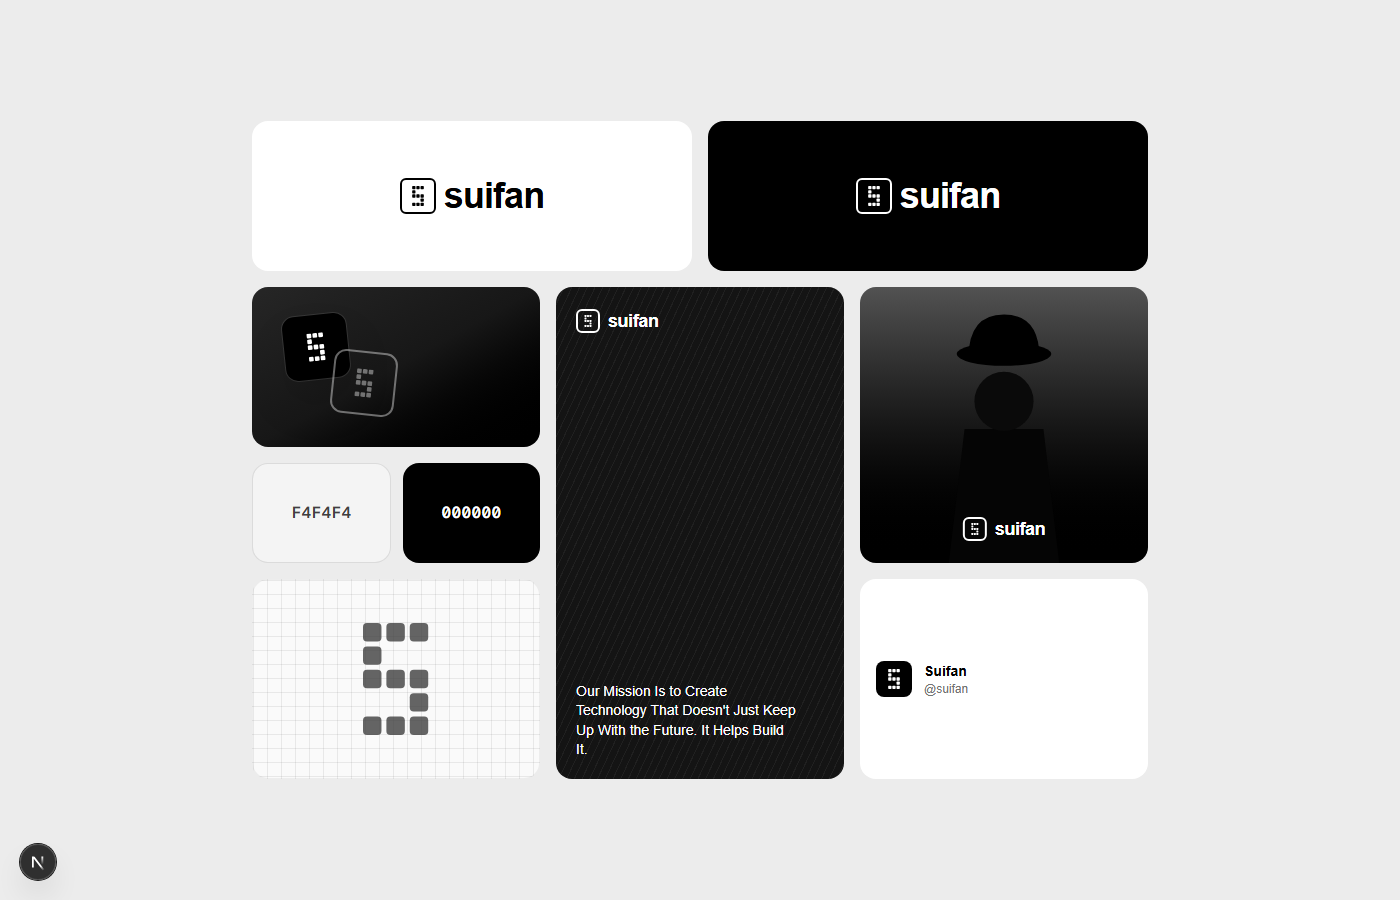
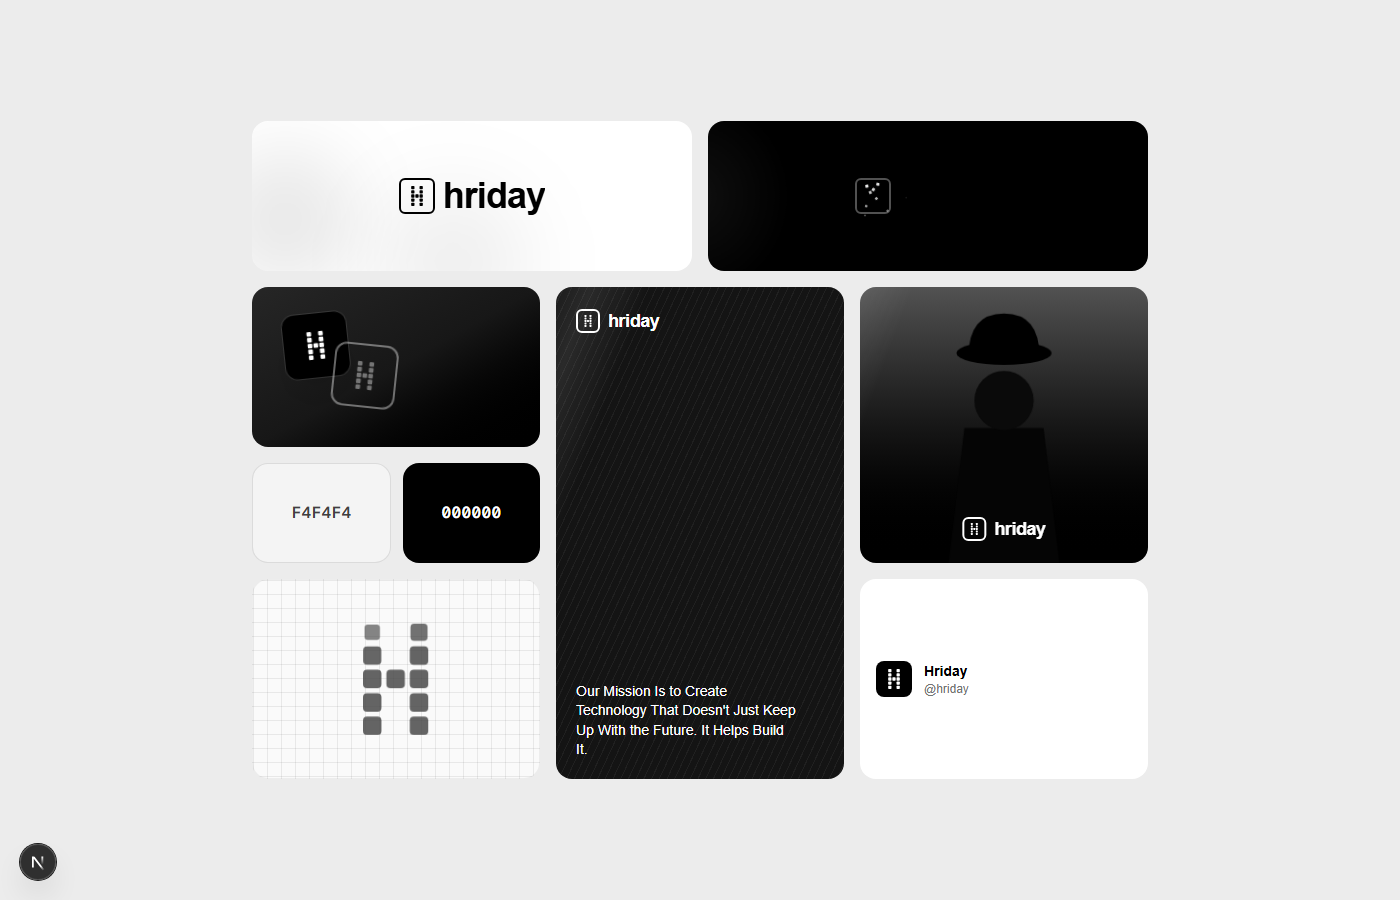
ads ui

diff --git a/src/app/page.tsx b/src/app/page.tsx
@@ -1,31 +1,53 @@
 import LogoMark from "@/components/LogoMark";
 import Wordmark from "@/components/Wordmark";
+import OutlineWordmark from "@/components/OutlineWordmark";
+import BlurWordmark from "@/components/BlurWordmark";
+
+const MARQUEE_ROWS = ["marquee-left", "marquee-right", "marquee-left"];
 
 export default function Home() {
   return (
-    <section className="flex min-h-screen w-full items-center justify-center bg-[#ececec] p-6 md:p-14">
-      <div className="brand-grid w-full max-w-4xl">
+    <section className="relative flex min-h-screen w-full items-center justify-center overflow-hidden bg-[#ececec] p-6 md:p-14">
+      <div className="bg-marquee" aria-hidden="true">
+        {MARQUEE_ROWS.map((dir, i) => (
+          <div key={i} className={`marquee-row ${dir}`}>
+            {Array.from({ length: 12 }, (_, j) => (
+              <span key={j}>HRIDAY</span>
+            ))}
+          </div>
+        ))}
+      </div>
+      <div className="brand-grid relative z-10 w-full max-w-4xl">
         {/* Light logo card */}
-        <div className="area-logoLight flex h-40 items-center justify-center rounded-2xl bg-white md:h-full">
-          <Wordmark tone="dark" size="lg" />
+        <div className="area-logoLight relative flex h-40 items-center justify-center overflow-hidden rounded-2xl bg-white md:h-full">
+          <BlurWordmark />
         </div>
 
+
+
         {/* Dark logo card */}
-        <div className="area-logoDark flex h-40 items-center justify-center rounded-2xl bg-black md:h-full">
-          <Wordmark tone="light" size="lg" />
+        <div className="area-logoDark beam relative flex h-40 items-center justify-center overflow-hidden rounded-2xl bg-black md:h-full">
+          <OutlineWordmark />
         </div>
+
+
 
         {/* Cube / lockup photo */}
         <div className="area-cube relative h-40 w-full overflow-hidden rounded-2xl bg-gradient-to-br from-neutral-800 via-neutral-900 to-black md:h-full">
-          <div className="absolute left-8 top-7 flex h-16 w-16 -rotate-6 items-center justify-center rounded-xl bg-black shadow-2xl ring-1 ring-white/10">
+          <div className="anim-float absolute left-8 top-7 flex h-16 w-16 -rotate-6 items-center justify-center rounded-xl bg-black shadow-2xl ring-1 ring-white/10">
             <LogoMark className="h-7 w-7" color="#ffffff" />
           </div>
-          <div className="absolute left-20 top-16 flex h-16 w-16 rotate-6 items-center justify-center rounded-xl border-2 border-white/40">
+          <div className="anim-float-delayed absolute left-20 top-16 flex h-16 w-16 rotate-6 items-center justify-center rounded-xl border-2 border-white/40">
             <LogoMark className="h-7 w-7" color="rgba(255,255,255,0.4)" />
           </div>
         </div>
 
-        {/* Color swatches */}
+
+
+
+
+
+
         <div className="area-swatch flex h-20 gap-3 md:h-full">
           <div className="flex flex-1 items-center justify-center rounded-2xl border border-black/10 bg-[#F4F4F4] font-mono text-base font-semibold tracking-wide text-neutral-700">
             F4F4F4
@@ -44,12 +66,12 @@ export default function Home() {
             backgroundSize: "14px 14px",
           }}
         >
-          <LogoMark className="h-28 w-auto opacity-80" color="#3f3f3f" />
+          <LogoMark className="h-28 w-auto opacity-80" color="#3f3f3f" animated />
         </div>
 
         {/* Dark mission photo */}
         <div
-          className="area-dark relative flex h-64 flex-col justify-between overflow-hidden rounded-2xl bg-[#141414] p-5 md:h-full"
+          className="area-dark sheen relative flex h-64 flex-col justify-between overflow-hidden rounded-2xl bg-[#141414] p-5 md:h-full"
           style={{
             backgroundImage:
               "repeating-linear-gradient(115deg, rgba(255,255,255,0.05) 0px, rgba(255,255,255,0.05) 1px, transparent 1px, transparent 7px)",
@@ -63,11 +85,11 @@ export default function Home() {
         </div>
 
         {/* Person photo */}
-        <div className="area-person relative h-72 overflow-hidden rounded-2xl bg-gradient-to-b from-neutral-600 via-neutral-900 to-black md:h-full">
+        <div className="area-person sheen relative h-72 overflow-hidden rounded-2xl bg-gradient-to-b from-neutral-600 via-neutral-900 to-black md:h-full">
           <svg
             viewBox="0 0 100 140"
             preserveAspectRatio="xMidYMax meet"
-            className="absolute inset-0 h-full w-full"
+            className="anim-breathe absolute inset-0 h-full w-full"
             aria-hidden="true"
           >
             <polygon points="22,140 30,72 70,72 78,140" fill="#050505" />
@@ -86,8 +108,8 @@ export default function Home() {
             <LogoMark className="h-5 w-5" color="#ffffff" />
           </span>
           <div className="flex flex-col leading-tight">
-            <span className="text-sm font-semibold text-black">Suifan</span>
-            <span className="text-xs text-neutral-500">@suifan</span>
+            <span className="text-sm font-semibold text-black">Hriday</span>
+            <span className="text-xs text-neutral-500">@hriday</span>
           </div>
         </div>
       </div>

diff --git a/src/app/globals.css b/src/app/globals.css
@@ -52,3 +52,167 @@ body {
   .area-person { grid-area: person; }
   .area-card { grid-area: card; }
 }
+
+@keyframes float-y {
+  0%, 100% { transform: translateY(0); }
+  50% { transform: translateY(-9px); }
+}
+
+@keyframes cell-pulse {
+  0%, 100% { transform: scale(1); opacity: 1; }
+  50% { transform: scale(0.55); opacity: 0.45; }
+}
+
+@keyframes sheen {
+  0% { transform: translateX(-120%) skewX(-20deg); }
+  60%, 100% { transform: translateX(260%) skewX(-20deg); }
+}
+
+@keyframes breathe {
+  0%, 100% { transform: scale(1) translateY(0); }
+  50% { transform: scale(1.04) translateY(-3px); }
+}
+
+.anim-float { animation: float-y 3.6s ease-in-out infinite; }
+.anim-float-delayed { animation: float-y 3.6s ease-in-out -1.8s infinite; }
+.anim-breathe { animation: breathe 5s ease-in-out infinite; transform-origin: 50% 100%; }
+
+.logo-cell {
+  transform-box: fill-box;
+  transform-origin: center;
+  animation: cell-pulse 2.4s ease-in-out infinite;
+}
+
+.sheen { position: relative; overflow: hidden; }
+.sheen::after {
+  content: "";
+  position: absolute;
+  inset: 0 auto 0 0;
+  width: 40%;
+  background: linear-gradient(90deg, transparent, rgba(255, 255, 255, 0.09), transparent);
+  animation: sheen 5s ease-in-out infinite;
+  pointer-events: none;
+}
+
+@media (prefers-reduced-motion: reduce) {
+  .anim-float, .anim-float-delayed, .anim-breathe, .logo-cell, .sheen::after {
+    animation: none;
+  }
+}
+
+@property --angle {
+  syntax: "<angle>";
+  inherits: false;
+  initial-value: 0deg;
+}
+
+@keyframes blur-in {
+  0%, 4% { opacity: 0; filter: blur(12px); transform: scale(1.5); }
+  22%, 76% { opacity: 1; filter: blur(0); transform: scale(1); }
+  92%, 100% { opacity: 0; filter: blur(12px); transform: scale(0.85); }
+}
+
+@keyframes col-wave {
+  0%, 100% { opacity: 0.15; }
+  30%, 60% { opacity: 1; }
+}
+
+@keyframes ring {
+  0% { transform: translate(-50%, -50%) scale(0.2); opacity: 0.35; }
+  100% { transform: translate(-50%, -50%) scale(2.6); opacity: 0; }
+}
+
+@keyframes beam {
+  to { --angle: 360deg; }
+}
+
+@keyframes fill-sweep {
+  0%, 8% { background-position: 100% 0; }
+  45%, 70% { background-position: 0% 0; }
+  100% { background-position: 100% 0; }
+}
+
+.blur-letter { display: inline-block; animation: blur-in 6s cubic-bezier(0.22, 1, 0.36, 1) infinite backwards; }
+.col-wave { animation: col-wave 6s ease-in-out infinite backwards; }
+.ring {
+  position: absolute;
+  left: 50%;
+  top: 50%;
+  width: 200px;
+  height: 200px;
+  border-radius: 9999px;
+  border: 1.5px solid #000;
+  pointer-events: none;
+  animation: ring 4.5s ease-out infinite;
+}
+
+.beam { position: relative; }
+.beam::before {
+  content: "";
+  position: absolute;
+  inset: 0;
+  border-radius: inherit;
+  padding: 2px;
+  background: conic-gradient(from var(--angle), transparent 0 70%, rgba(255, 255, 255, 0.9) 100%);
+  -webkit-mask: linear-gradient(#000 0 0) content-box, linear-gradient(#000 0 0);
+  -webkit-mask-composite: xor;
+  mask: linear-gradient(#000 0 0) content-box exclude, linear-gradient(#000 0 0);
+  animation: beam 4s linear infinite;
+  pointer-events: none;
+}
+
+.outline-fill {
+  color: transparent;
+  -webkit-text-stroke: 1.5px #fff;
+  background-image: linear-gradient(90deg, #fff 50%, transparent 50%);
+  background-size: 200% 100%;
+  background-position: 100% 0;
+  -webkit-background-clip: text;
+  background-clip: text;
+  animation: fill-sweep 5s ease-in-out infinite;
+}
+
+@media (prefers-reduced-motion: reduce) {
+  .blur-letter, .col-wave, .ring, .beam::before, .outline-fill { animation: none; }
+  .blur-letter, .col-wave { opacity: 1; }
+  .outline-fill { color: #fff; background: none; }
+}
+
+@keyframes marquee-left {
+  from { transform: translateX(0); }
+  to { transform: translateX(-50%); }
+}
+
+@keyframes marquee-right {
+  from { transform: translateX(-50%); }
+  to { transform: translateX(0); }
+}
+
+.bg-marquee {
+  position: absolute;
+  inset: 0;
+  overflow: hidden;
+  pointer-events: none;
+  display: flex;
+  flex-direction: column;
+  justify-content: space-between;
+  -webkit-mask-image: linear-gradient(to right, transparent, #000 15%, #000 85%, transparent);
+  mask-image: linear-gradient(to right, transparent, #000 15%, #000 85%, transparent);
+}
+.marquee-row { display: flex; width: max-content; }
+.marquee-row span {
+  padding-right: 0.5em;
+  font-size: clamp(120px, 24vh, 260px);
+  font-weight: 800;
+  line-height: 1;
+  letter-spacing: -0.03em;
+  white-space: nowrap;
+  color: transparent;
+  -webkit-text-stroke: 1.5px rgba(0, 0, 0, 0.13);
+}
+.marquee-left { animation: marquee-left 60s linear infinite; }
+.marquee-right { animation: marquee-right 70s linear infinite; }
+
+@media (prefers-reduced-motion: reduce) {
+  .marquee-left, .marquee-right { animation: none; }
+}

diff --git a/src/components/LogoMark.tsx b/src/components/LogoMark.tsx
@@ -1,26 +1,28 @@
 type LogoMarkProps = {
   className?: string;
   color?: string;
+  animated?: boolean;
+  waveColumns?: boolean;
 };
 
-// Blocky "S" monogram built on a 3x5 block grid, rendered as an SVG so it
+// Blocky "H" monogram built on a 3x5 block grid, rendered as an SVG so it
 // scales cleanly at any size used across the brand board.
 const CELL = 6;
 const GAP = 1.6;
 const STEP = CELL + GAP;
 
 const FILLED_CELLS: Array<[col: number, row: number]> = [
-  [0, 0], [1, 0], [2, 0],
-  [0, 1],
+  [0, 0], [2, 0],
+  [0, 1], [2, 1],
   [0, 2], [1, 2], [2, 2],
-  [2, 3],
-  [0, 4], [1, 4], [2, 4],
+  [0, 3], [2, 3],
+  [0, 4], [2, 4],
 ];
 
 const WIDTH = 3 * STEP - GAP;
 const HEIGHT = 5 * STEP - GAP;
 
-export default function LogoMark({ className, color = "currentColor" }: LogoMarkProps) {
+export default function LogoMark({ className, color = "currentColor", animated = false, waveColumns = false }: LogoMarkProps) {
   return (
     <svg
       viewBox={`0 0 ${WIDTH} ${HEIGHT}`}
@@ -29,9 +31,17 @@ export default function LogoMark({ className, color = "currentColor" }: LogoMark
       xmlns="http://www.w3.org/2000/svg"
       aria-hidden="true"
     >
-      {FILLED_CELLS.map(([col, row]) => (
+      {FILLED_CELLS.map(([col, row], i) => (
         <rect
           key={`${col}-${row}`}
+          className={waveColumns ? "col-wave" : animated ? "logo-cell" : undefined}
+          style={
+            waveColumns
+              ? { animationDelay: `${col * 0.35}s` }
+              : animated
+                ? { animationDelay: `${i * 0.18}s` }
+                : undefined
+          }
           x={col * STEP}
           y={row * STEP}
           width={CELL}

diff --git a/src/components/BlurWordmark.tsx b/src/components/BlurWordmark.tsx
@@ -1,0 +1,18 @@
+import LogoMark from "./LogoMark";
+
+export default function BlurWordmark() {
+  return (
+    <div className="relative flex items-center gap-3 text-black">
+      <span className="flex h-16 w-16 items-center justify-center rounded-lg border-[3px] border-black p-3">
+        <LogoMark className="h-full w-full" color="#000000" waveColumns />
+      </span>
+      <span className="text-4xl font-bold tracking-tight" aria-label="hriday">
+        {"hriday".split("").map((ch, i) => (
+          <span key={i} className="blur-letter" aria-hidden="true" style={{ animationDelay: `${0.2 + i * 0.12}s` }}>
+            {ch}
+          </span>
+        ))}
+      </span>
+    </div>
+  );
+}

diff --git a/src/components/OutlineWordmark.tsx b/src/components/OutlineWordmark.tsx
@@ -1,0 +1,12 @@
+import LogoMark from "./LogoMark";
+
+export default function OutlineWordmark() {
+  return (
+    <div className="relative flex items-center gap-3 text-white">
+      <span className="flex h-16 w-16 items-center justify-center rounded-lg border-[3px] border-white p-3">
+        <LogoMark className="h-full w-full" color="#ffffff" animated />
+      </span>
+      <span className="outline-fill text-4xl font-bold tracking-tight">hriday</span>
+    </div>
+  );
+}

diff --git a/src/components/Wordmark.tsx b/src/components/Wordmark.tsx
@@ -18,7 +18,7 @@ export default function Wordmark({ tone = "dark", size = "lg" }: WordmarkProps) 
       <span className={`flex items-center justify-center rounded-md border-2 ${border} ${iconBox} ${iconPad}`}>
         <LogoMark className="h-full w-full" color={iconColor} />
       </span>
-      <span className={`font-bold tracking-tight ${textSize}`}>suifan</span>
+      <span className={`font-bold tracking-tight ${textSize}`}>hriday</span>
     </div>
   );
 }

diff --git a/src/app/layout.tsx b/src/app/layout.tsx
@@ -13,8 +13,8 @@ const geistMono = Geist_Mono({
 });
 
 export const metadata: Metadata = {
-  title: "Suifan — Brand",
-  description: "Suifan brand identity showcase",
+  title: "Hriday — Brand",
+  description: "Hriday brand identity showcase",
 };
 
 export default function RootLayout({ children }: LayoutProps<"/">) {
